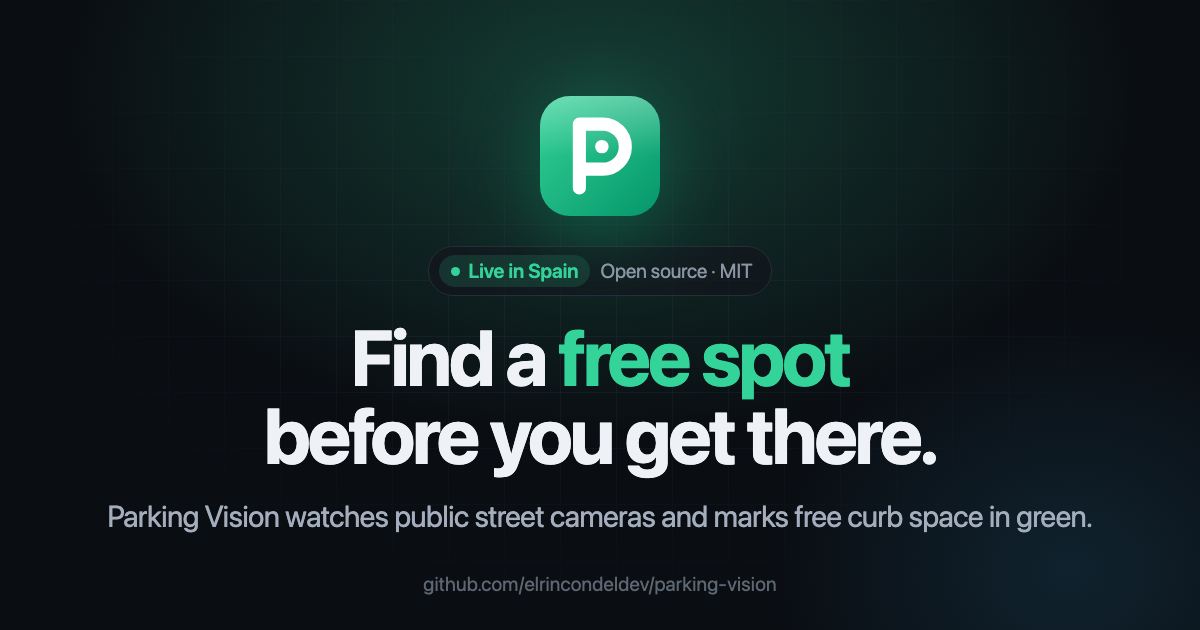
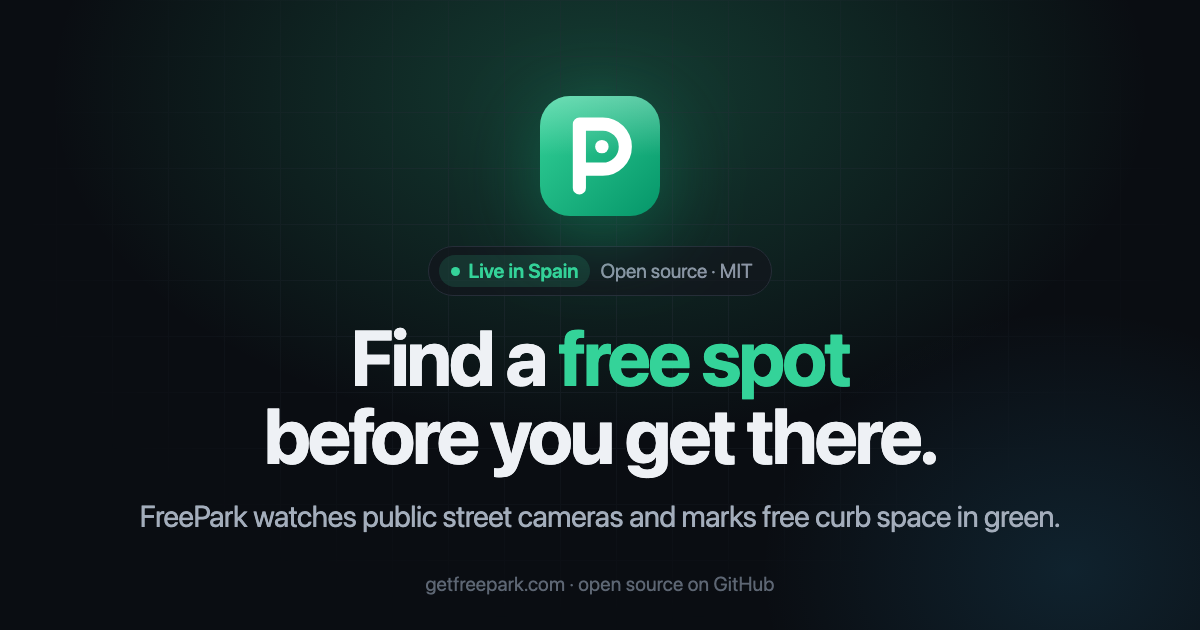
free park

Changed region(s): [[0.0925, 0.7841, 0.925, 0.8444], [0.3392, 0.9048, 0.6475, 0.9651]]

diff --git a/apps/web/index.html b/apps/web/index.html
@@ -9,25 +9,27 @@
     <meta name="viewport" content="width=device-width, initial-scale=1.0" />
     <meta name="theme-color" content="#f4f5f7" media="(prefers-color-scheme: light)" />
     <meta name="theme-color" content="#0a0d12" media="(prefers-color-scheme: dark)" />
-    <meta name="apple-mobile-web-app-title" content="Parking Vision" />
-    <title>Parking Vision — find a free parking spot before you get there</title>
+    <meta name="apple-mobile-web-app-title" content="FreePark" />
+    <title>FreePark — find a free parking spot before you get there</title>
+    <link rel="canonical" href="https://getfreepark.com/" />
     <meta
       name="description"
-      content="Parking Vision watches public street cameras in Spain and marks free curb space in green. Open source, no account, bring your own Replicate key."
+      content="FreePark watches public street cameras in Spain and marks free curb space in green. Open source, no account, bring your own Replicate key."
     />
-    <meta property="og:title" content="Parking Vision" />
+    <meta property="og:title" content="FreePark — find a free parking spot before you get there" />
     <meta
       property="og:description"
       content="Find a free parking spot before you get there. Open-source app that watches public street cameras and marks free curb space in green."
     />
     <meta property="og:type" content="website" />
-    <meta property="og:site_name" content="Parking Vision" />
-    <meta property="og:image" content="/og-image.png" />
+    <meta property="og:site_name" content="FreePark" />
+    <meta property="og:url" content="https://getfreepark.com/" />
+    <meta property="og:image" content="https://getfreepark.com/og-image.png" />
     <meta property="og:image:width" content="1200" />
     <meta property="og:image:height" content="630" />
-    <meta property="og:image:alt" content="Parking Vision: find a free spot before you get there." />
+    <meta property="og:image:alt" content="FreePark: find a free spot before you get there." />
     <meta name="twitter:card" content="summary_large_image" />
-    <meta name="twitter:image" content="/og-image.png" />
+    <meta name="twitter:image" content="https://getfreepark.com/og-image.png" />
   </head>
   <body>
     <div id="root"></div>

diff --git a/apps/web/src/pages/landing/ui/LandingPage.tsx b/apps/web/src/pages/landing/ui/LandingPage.tsx
@@ -9,6 +9,7 @@ import {
   EASE_OUT,
   LocateIcon,
   LogoMark,
+  Wordmark,
   PencilIcon,
   RefreshIcon,
   SearchIcon,
@@ -89,8 +90,8 @@ export function LandingPage() {
               variants={rise}
               className="mt-6 max-w-xl text-pretty text-lg leading-8 text-muted"
             >
-              Parking Vision watches public street cameras and marks free curb space in green, so
-              you know where to park before you leave home.
+              FreePark watches public street cameras and marks free curb space in green, so you know
+              where to park before you leave home.
             </motion.p>
 
             <motion.div variants={rise} className="mt-9 flex flex-wrap items-center gap-3">
@@ -149,9 +150,9 @@ function Backdrop() {
 
 function Logo() {
   return (
-    <a href="/" className="flex items-center gap-2.5 rounded-xl" aria-label="Parking Vision home">
+    <a href="/" className="flex items-center gap-2.5 rounded-xl" aria-label="FreePark home">
       <LogoMark size={32} className="drop-shadow-[0_4px_10px_rgba(16,185,129,0.3)]" />
-      <span className="whitespace-nowrap font-semibold tracking-tight">Parking Vision</span>
+      <Wordmark className="font-semibold tracking-tight" />
     </a>
   )
 }
@@ -448,8 +449,8 @@ function OpenSource() {
             Built in the open. Yours to run.
           </h2>
           <p className="mt-4 text-pretty text-lg leading-8 text-muted">
-            Parking Vision is MIT licensed. Self-host it in one command, add your city’s cameras, or
-            send a pull request. A star helps more people find it.
+            FreePark is MIT licensed. Self-host it in one command, add your city’s cameras, or send
+            a pull request. A star helps more people find it.
           </p>
           <div className="mt-8 flex flex-wrap gap-3">
             <GitHubStarButton size="lg" />
@@ -557,7 +558,7 @@ function Footer() {
             href={GITHUB_URL}
             target="_blank"
             rel="noreferrer"
-            aria-label="Parking Vision on GitHub"
+            aria-label="FreePark on GitHub"
             className="hover:text-ink"
           >
             <GitHubIcon width={18} height={18} />

diff --git a/apps/web/src/widgets/app-header/ui/AppHeader.tsx b/apps/web/src/widgets/app-header/ui/AppHeader.tsx
@@ -5,7 +5,7 @@ import { AddCameraButton } from '@/features/add-camera'
 import { ReplicateKeyControl } from '@/features/manage-replicate-key'
 import { SoundToggle } from '@/features/toggle-alert-sound'
 import type { ConnectionState } from '@/shared/lib'
-import { LogoMark } from '@/shared/ui'
+import { LogoMark, Wordmark } from '@/shared/ui'
 import { DataControl } from './DataControl'
 
 export function AppHeader() {
@@ -17,13 +17,9 @@ export function AppHeader() {
     <header className="sticky top-0 z-20 border-b border-line/70 bg-bg/80 backdrop-blur-xl">
       <div className="mx-auto flex max-w-7xl flex-wrap items-center gap-3 px-4 py-3 sm:flex-nowrap">
         <div className="flex items-center gap-2.5">
-          <a
-            href="/"
-            className="flex items-center gap-2.5 rounded-xl"
-            aria-label="Parking Vision home"
-          >
+          <a href="/" className="flex items-center gap-2.5 rounded-xl" aria-label="FreePark home">
             <LogoMark size={32} className="drop-shadow-sm" />
-            <span className="font-semibold tracking-tight">Parking Vision</span>
+            <Wordmark className="font-semibold tracking-tight" />
           </a>
           <ConnectionPill state={connection} />
         </div>

diff --git a/apps/web/src/shared/ui/LogoMark.tsx b/apps/web/src/shared/ui/LogoMark.tsx
@@ -1,7 +1,7 @@
 import { useId } from 'react'
 
 /**
- * The Parking Vision mark: a "P" whose bowl holds a camera lens, on a green tile.
+ * The FreePark mark: a "P" whose bowl holds a camera lens, on a green tile.
  * Same artwork as public/logo.svg and the favicons.
  */
 export function LogoMark({ size = 32, className }: { size?: number; className?: string }) {
@@ -37,5 +37,14 @@ export function LogoMark({ size = 32, className }: { size?: number; className?: 
       />
       <circle cx="33" cy="27" r="3.6" fill="#fff" />
     </svg>
+  )
+}
+
+/** The product name, with "Free" in the brand green. */
+export function Wordmark({ className }: { className?: string }) {
+  return (
+    <span className={className ? `whitespace-nowrap ${className}` : 'whitespace-nowrap'}>
+      <span className="text-free">Free</span>Park
+    </span>
   )
 }

diff --git a/apps/web/src/shared/api/browserState.ts b/apps/web/src/shared/api/browserState.ts
@@ -1,5 +1,6 @@
 /** Durable browser copy of the user's views, zones, samples and reference images. */
 
+// Storage keys keep the project's original name so existing browsers keep their data.
 const CLIENT_KEY = 'parking-vision-client-id'
 const STATE_KEY = 'parking-vision-state-v1'
 const DB_NAME = 'parking-vision-images'
@@ -234,7 +235,7 @@ export async function exportBrowserSnapshot(watchlist?: unknown): Promise<void> 
   const url = URL.createObjectURL(blob)
   const link = document.createElement('a')
   link.href = url
-  link.download = 'parking-vision-data.json'
+  link.download = 'freepark-data.json'
   link.click()
   setTimeout(() => URL.revokeObjectURL(url), 1000)
 }

diff --git a/apps/web/brand/og-image.html b/apps/web/brand/og-image.html
@@ -21,7 +21,7 @@ footer{position:absolute;bottom:34px;left:0;right:0;text-align:center;font-size:
   <img src="../public/logo.svg" alt="">
   <div class="pill"><b><span class="dot"></span>Live in Spain</b>Open source · MIT</div>
   <h1>Find a <span>free spot</span><br>before you get there.</h1>
-  <p>Parking Vision watches public street cameras and marks free curb space in green.</p>
+  <p>FreePark watches public street cameras and marks free curb space in green.</p>
 </main>
-<footer>github.com/elrincondeldev/parking-vision</footer>
+<footer>getfreepark.com · open source on GitHub</footer>
 </body></html>

diff --git a/apps/web/src/shared/ui/index.ts b/apps/web/src/shared/ui/index.ts
@@ -2,7 +2,7 @@ export { AnimatedCount } from './AnimatedCount'
 export { Button, type ButtonProps } from './Button'
 export { cn } from './cn'
 export { IconButton, type IconButtonProps } from './IconButton'
-export { LogoMark } from './LogoMark'
+export { LogoMark, Wordmark } from './LogoMark'
 export * from './icons'
 export { EASE_OUT, fade, motionPresets, rise } from './motion'
 export { Slider, type SliderProps } from './Slider'

diff --git a/apps/web/src/app/App.test.tsx b/apps/web/src/app/App.test.tsx
@@ -19,7 +19,7 @@ beforeEach(() => {
 
 test('shows the empty state on first visit', () => {
   render(<App />)
-  expect(screen.getByText('Parking Vision')).toBeInTheDocument()
+  expect(screen.getByRole('link', { name: 'FreePark home' })).toBeInTheDocument()
   expect(screen.getByText(/Find a free spot/)).toBeInTheDocument()
   expect(screen.getByLabelText('Replicate API token')).toHaveFocus()
 })

diff --git a/apps/web/src/shared/config/index.ts b/apps/web/src/shared/config/index.ts
@@ -10,5 +10,8 @@ export const APP_PATH = '/app'
 export const isAppPath = (pathname: string) =>
   pathname === APP_PATH || pathname.startsWith(`${APP_PATH}/`)
 
+/** Public address of the hosted app. */
+export const SITE_URL = 'https://getfreepark.com'
+
 export const GITHUB_REPO = 'elrincondeldev/parking-vision'
 export const GITHUB_URL = `https://github.com/${GITHUB_REPO}`

diff --git a/apps/web/src/features/add-camera/ui/CameraFinderDialog.tsx b/apps/web/src/features/add-camera/ui/CameraFinderDialog.tsx
@@ -215,7 +215,7 @@ function FinderPanel() {
           ) : failed ? (
             <Problem
               title="Can't reach the camera directory"
-              body="Check that the Parking Vision API is running, then try again."
+              body="Check that the FreePark API is running, then try again."
               onRetry={retry}
             />
           ) : (

diff --git a/apps/web/src/entities/camera/model/watchlist.ts b/apps/web/src/entities/camera/model/watchlist.ts
@@ -16,6 +16,7 @@ interface CameraState {
   setSound: (sound: boolean) => void
 }
 
+// Keeps the project's original name so existing browsers keep their cameras.
 export const STORAGE_KEY = 'parking-vision:v1'
 export const defaultLabel = (id: string) => `Camera ${id}`
 

diff --git a/apps/api/scripts/capture_frames.py b/apps/api/scripts/capture_frames.py
@@ -30,7 +30,7 @@ def main() -> None:
     last: dict[str, str] = {}
     saved = {c: 0 for c in args.cameras}
     deadline = time.monotonic() + args.max_minutes * 60
-    headers = {"User-Agent": "parking-vision/0.1 (fixture capture)"}
+    headers = {"User-Agent": "FreePark/0.1 (fixture capture)"}
     with httpx.Client(timeout=10, headers=headers) as client:
         while time.monotonic() < deadline and any(n < args.per_camera for n in saved.values()):
             for cam in args.cameras:
